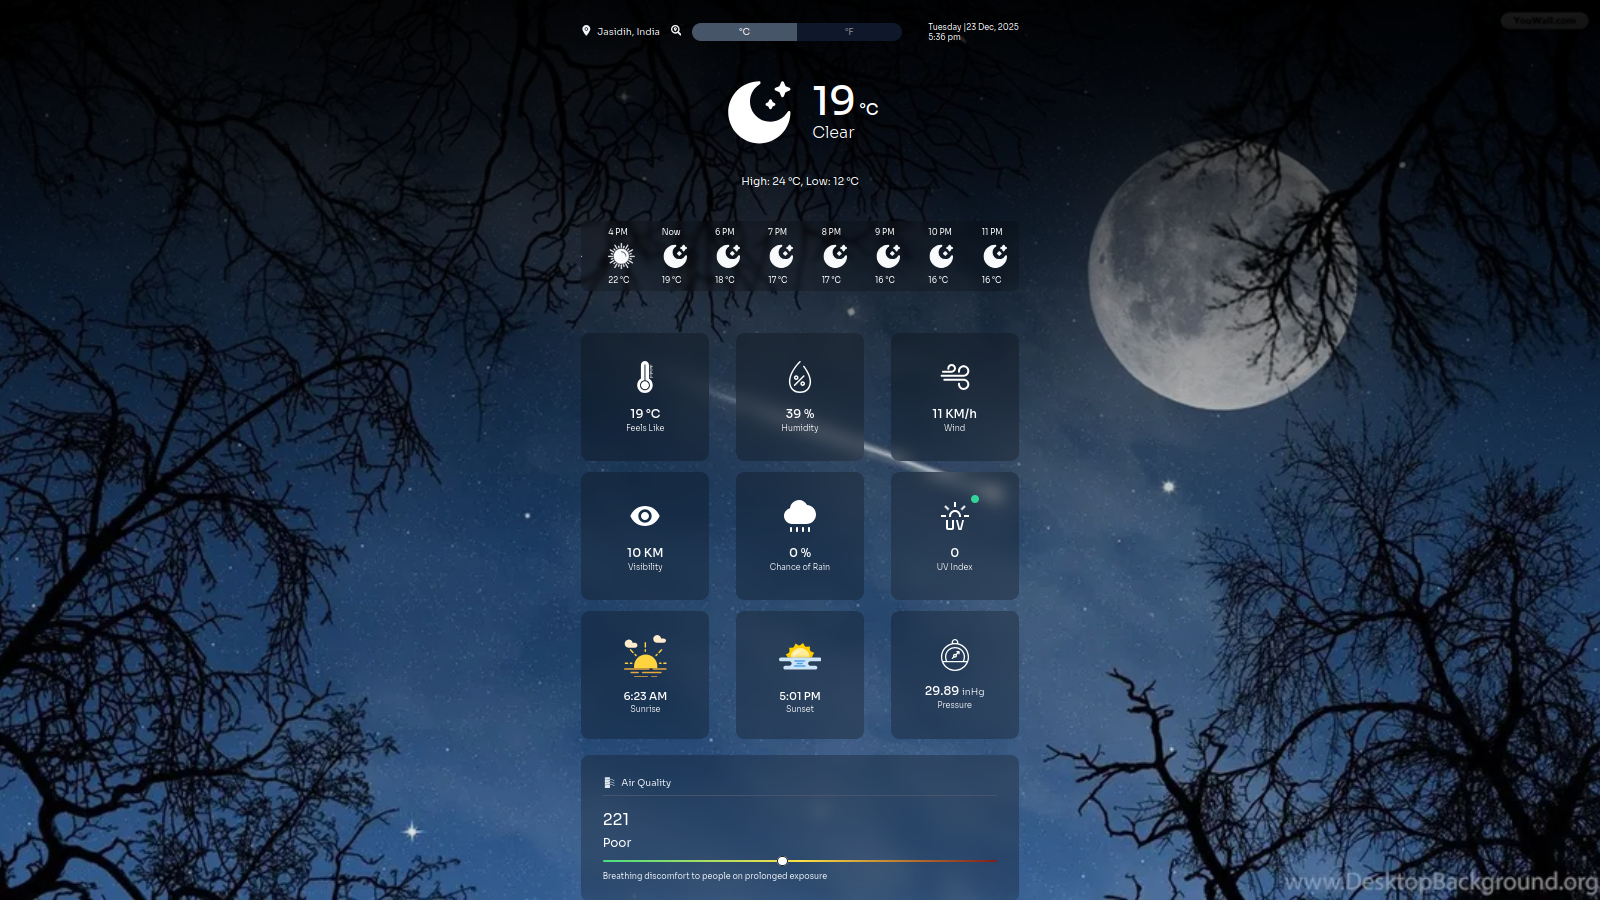
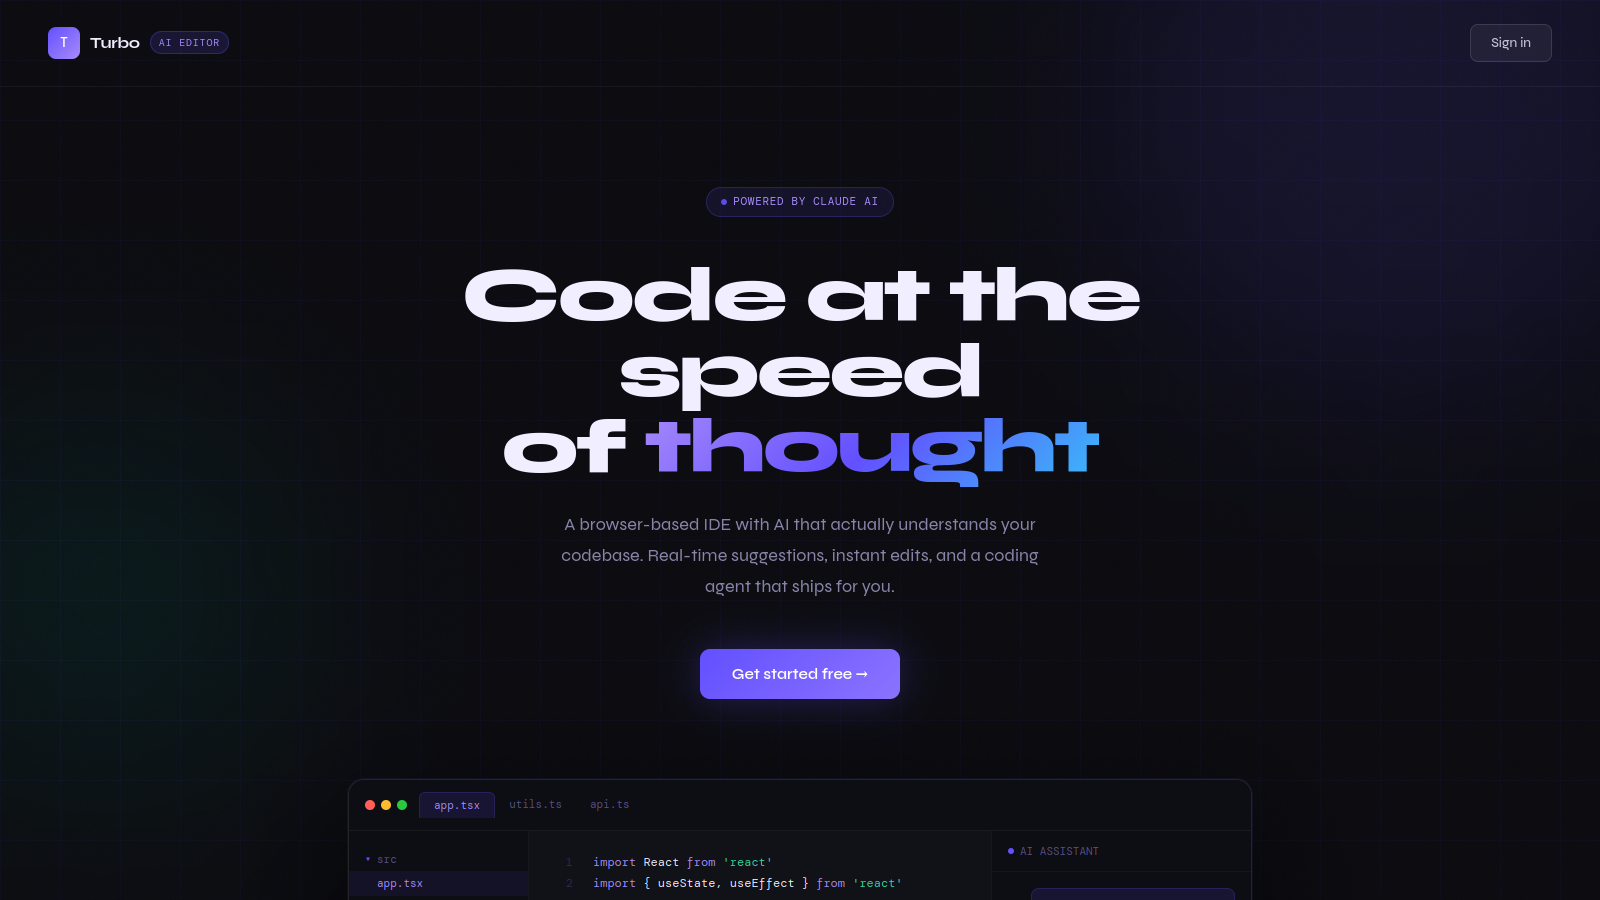
chore: Add new project in constants/index.js in projects array

diff --git a/src/constants/index.js b/src/constants/index.js
@@ -297,9 +297,9 @@ const socialImgs = [
 
 const projects = [
   {
-    name: "AI Marketing Analytics Dashboard",
-    description: "A comprehensive analytics platform integrating multi-channel marketing data from Meta, Google Ads, and Shopify. Features real-time KPI tracking, AI-driven insights, and automated notifications via WhatsApp and Slack.",
-    techStack: ["React", "Node.js", "Express", "PostgreSQL", "TypeScript", "Third-party APIs"],
+    name: "Turbo - AI Editor",
+    description: "A comprehensive analytics platform integrating multi-channel marketing data from Meta, Google Ads, and Shopify. Features real-time KPI tracking, AI-driven insights, and automated notifications via WhatsApp and Slack",
+    techStack: ["Next.js 16", "React 19", "Typescript", "Tailwind CSS 4", "WebContainer API", "Convex", "Inngest", "Varcel AI SDK", "Clerk", "Sentry", "Zustand"],
     liveLink: "https://example.com/project1",
     imagePath: "/images/project1.png",
   },
